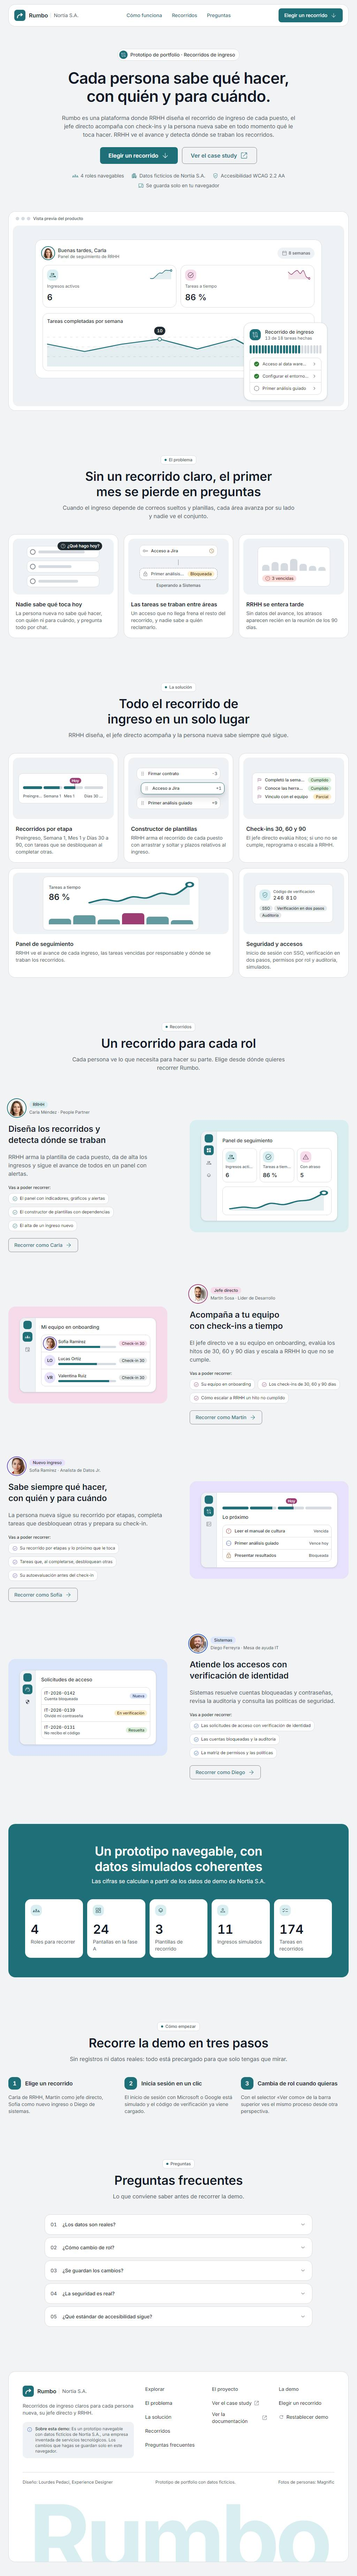
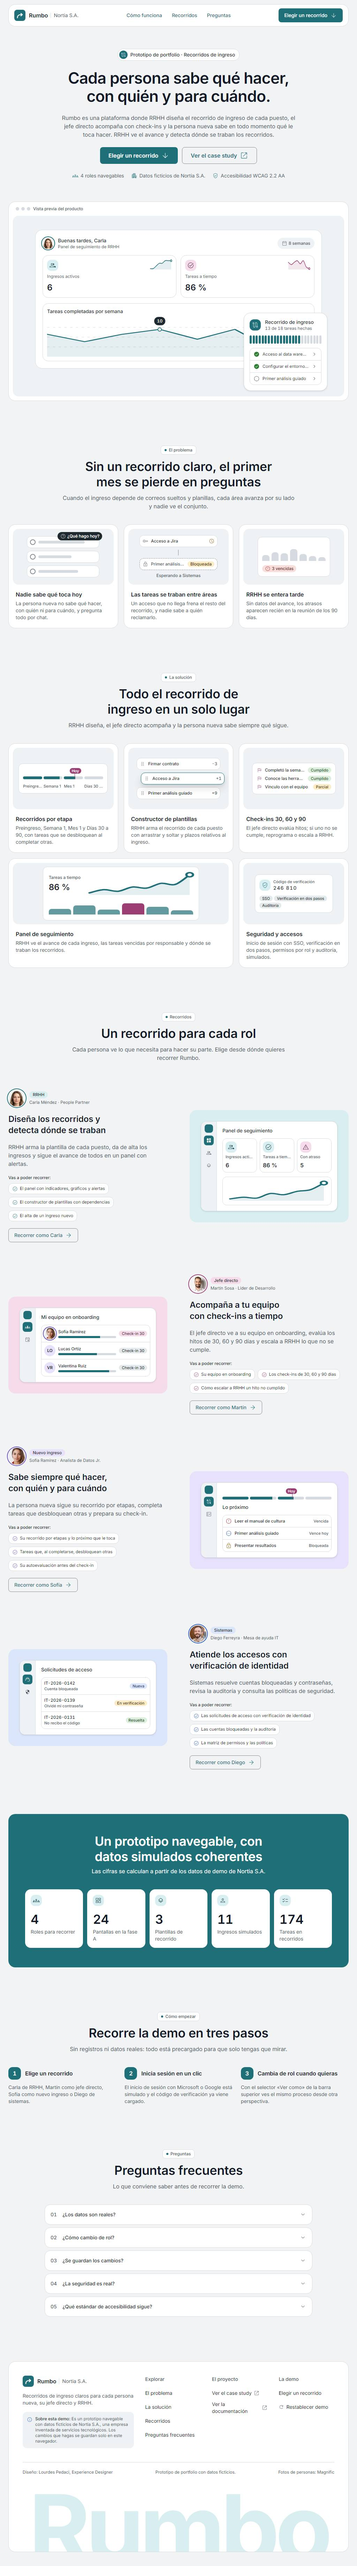
Remove the browser storage fact from the G0 hero

diff --git a/src/features/home/DemoHomePage.tsx b/src/features/home/DemoHomePage.tsx
@@ -19,7 +19,7 @@ import { SolutionSection } from './SolutionSection';
 import { StatsBand } from './StatsBand';
 import { StepsSection } from './StepsSection';
 
-const META_ICONS: IconName[] = ['groups', 'apartment', 'verified_user', 'devices'];
+const META_ICONS: IconName[] = ['groups', 'apartment', 'verified_user'];
 const FOOTER_LINK =
   'inline-flex min-h-11 items-center gap-1.5 rounded-sm text-left text-body-medium text-on-surface hover:text-primary hover:underline underline-offset-4 md:min-h-9';
 

diff --git a/CLAUDE.md b/CLAUDE.md
@@ -428,7 +428,7 @@ La demo para el portfolio y el producto se separan: la pantalla de inicio presen
 - Al elegir una tarjeta se abre el login con ese rol preseleccionado (`/login?demo=carla`, `martin`, `sofia` o `diego`).
 - **Estructura de página de producto B2B** (D-70 y D-71, a partir de dos referencias de Lourdes):
     1. Barra superior flotante con el logo, enlaces a las secciones ("Cómo funciona", "Recorridos", "Preguntas") y la acción principal "Elegir un recorrido".
-    2. Hero centrado: etiqueta, titular, texto, "Elegir un recorrido" y "Ver el case study", los datos de la demo (4 roles, datos ficticios, WCAG 2.2 AA, se guarda en el navegador) y el producto dentro de un marco neutro.
+    2. Hero centrado: etiqueta, titular, texto, "Elegir un recorrido" y "Ver el case study", los datos de la demo (4 roles, datos ficticios, WCAG 2.2 AA) y el producto dentro de un marco neutro.
     3. **El problema:** tres tarjetas con una escena hecha con piezas de Rumbo.
     4. **La solución:** bento de cinco tarjetas (recorridos por etapa, constructor de plantillas, check-ins, panel de seguimiento, seguridad y accesos), cada una con una mini interfaz.
     5. **Un recorrido para cada rol:** una sección por rol que alterna lados desde 1024 px: de un lado la foto, el chip del rol, un título, qué hace, qué se puede recorrer y "Recorrer como…"; del otro, una miniatura de su pantalla dentro de un marco, sobre el contenedor plano del color del rol. Las miniaturas usan los datos de demo cuando se puede.
